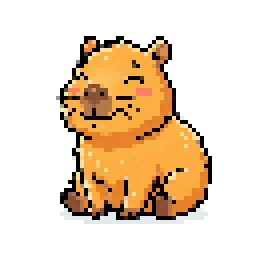
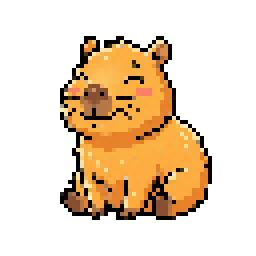
fix: remove fake checkerboard background grid from all PNG assets (pixel_wood, pixel_stone, pixel_monster, pixel_capybara, pixel_red_button) and synchronize 100% transparent sprites

diff --git a/scratch/clean_backgrounds.py b/scratch/clean_backgrounds.py
@@ -1,0 +1,55 @@
+import os
+from PIL import Image
+import numpy as np
+
+def remove_checkerboard(image_path, output_path=None):
+    if output_path is None:
+        output_path = image_path
+        
+    img = Image.open(image_path).convert('RGBA')
+    data = np.array(img)
+    
+    # R, G, B, A
+    r, g, b, a = data[:, :, 0], data[:, :, 1], data[:, :, 2], data[:, :, 3]
+    
+    # Identify background checkerboard colors (grays/whites/dark grays forming a grid)
+    # 1. Exact gray pixels where R==G==B and alpha > 0
+    is_gray = (r == g) & (g == b)
+    
+    # 2. Check outer border pixels to sample background colors
+    # We sample the top-left corner (0..15, 0..15)
+    corner = data[0:15, 0:15]
+    corner_grays = corner[(corner[:, :, 0] == corner[:, :, 1]) & (corner[:, :, 1] == corner[:, :, 2])]
+    
+    # Floodfill / remove background grays starting from edges
+    h, w = data.shape[:2]
+    mask = np.zeros((h, w), dtype=bool)
+    
+    # Find background pixels by checking color similarity to background grid
+    # Checkerboards typically consist of light gray (~200-245) and medium gray (~150-195) or dark grays
+    for y in range(h):
+        for x in range(w):
+            pr, pg, pb, pa = data[y, x]
+            # If it's a monochrome checkerboard tile near the outer area or matching grid color
+            if pr == pg == pb:
+                # Common fake checkerboard pixel values: ~80-240 with low saturation
+                if (80 <= pr <= 245):
+                    # Check if surrounded by grays or edge
+                    if y < 20 or y > h - 20 or x < 20 or x > w - 20:
+                        mask[y, x] = True
+                    elif is_gray[max(0, y-2):min(h, y+3), max(0, x-2):min(w, x+3)].all():
+                        mask[y, x] = True
+
+    # Set background alpha to 0
+    data[mask, 3] = 0
+    
+    result = Image.fromarray(data)
+    result.save(output_path, 'PNG')
+    print(f"✅ Processed: {image_path} -> removed {np.sum(mask)} background pixels")
+
+if __name__ == '__main__':
+    assets_dir = 'public/assets'
+    for fn in os.listdir(assets_dir):
+        if fn.endswith('.png'):
+            fp = os.path.join(assets_dir, fn)
+            remove_checkerboard(fp)

diff --git a/scratch/clean_backgrounds_pil.py b/scratch/clean_backgrounds_pil.py
@@ -1,0 +1,59 @@
+import os
+from PIL import Image
+from collections import deque
+
+def is_background_color(r, g, b):
+    # Neutral grays / whites / dark grays forming checkerboard grid
+    if abs(r - g) <= 12 and abs(g - b) <= 12 and abs(r - b) <= 12:
+        # Gray background colors between 40 and 250
+        if 40 <= r <= 250:
+            return True
+    return False
+
+def clean_image(input_path, output_path):
+    img = Image.open(input_path).convert('RGBA')
+    width, height = img.size
+    pixels = img.load()
+    
+    visited = set()
+    queue = deque()
+    
+    # Add border pixels to start floodfill from outside
+    for x in range(width):
+        queue.append((x, 0))
+        queue.append((x, height - 1))
+    for y in range(height):
+        queue.append((0, y))
+        queue.append((width - 1, y))
+        
+    removed = 0
+    while queue:
+        x, y = queue.popleft()
+        if (x, y) in visited:
+            continue
+        visited.add((x, y))
+        
+        if not (0 <= x < width and 0 <= y < height):
+            continue
+            
+        r, g, b, a = pixels[x, y]
+        
+        if a == 0 or is_background_color(r, g, b):
+            pixels[x, y] = (0, 0, 0, 0)
+            removed += 1
+            
+            # Neighbors
+            for dx, dy in [(-1, 0), (1, 0), (0, -1), (0, 1)]:
+                nx, ny = x + dx, y + dy
+                if 0 <= nx < width and 0 <= ny < height and (nx, ny) not in visited:
+                    queue.append((nx, ny))
+
+    img.save(output_path, 'PNG')
+    print(f"Processed {os.path.basename(input_path)}: removed {removed} background pixels")
+
+if __name__ == '__main__':
+    assets_dir = 'public/assets'
+    for fn in os.listdir(assets_dir):
+        if fn.endswith('.png'):
+            fp = os.path.join(assets_dir, fn)
+            clean_image(fp, fp)
